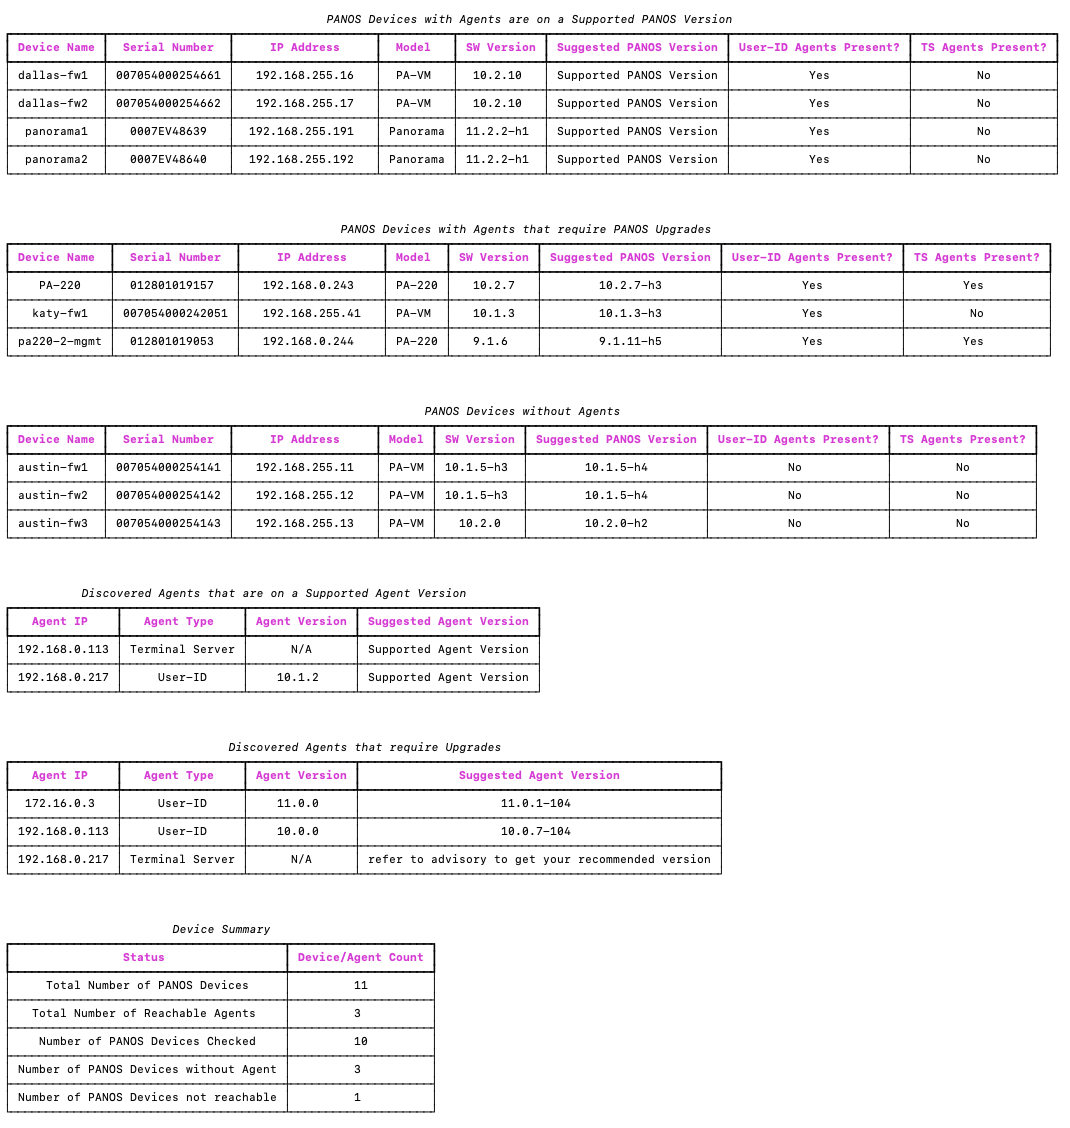
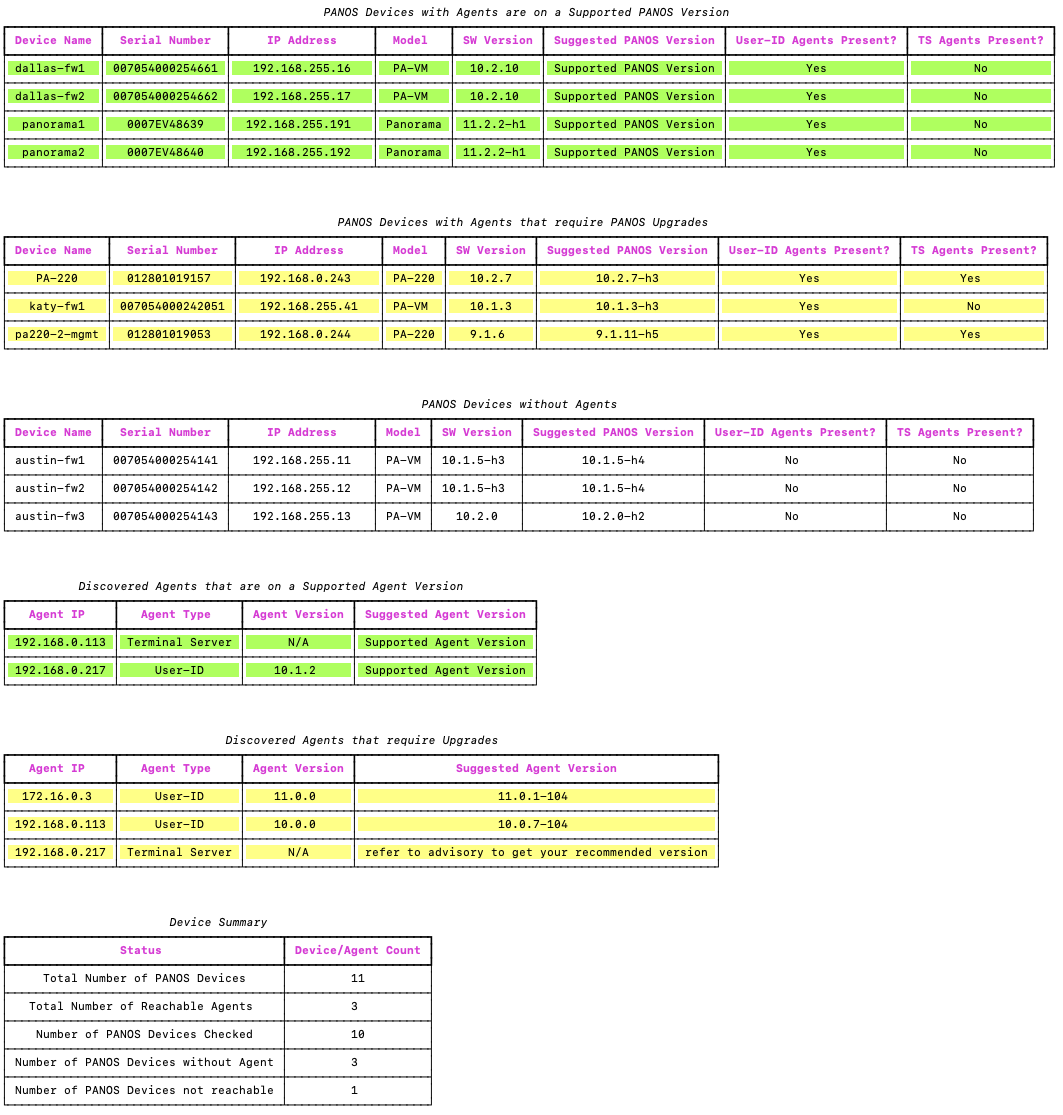
changed example

diff --git a/userid-check.py b/userid-check.py
@@ -524,13 +524,13 @@ if args.c:
 
         for x in panos_list:
             if x[5]  == 'Supported PANOS Version':
-                supported_panos_table.add_row(x[0], x[1], x[2], x[3], x[4], x[5], x[6], x[7])
+                supported_panos_table.add_row(x[0], x[1], x[2], x[3], x[4], x[5], x[6], x[7], style="on #afff5f")
             else:
                 if x[6]  == 'No' and x[7] == 'No':
                     ignore_panos_table.add_row(x[0], x[1], x[2], x[3], x[4], x[5], x[6], x[7])
                     devices_no_agent+=1
                 else:
-                    unsupported_panos_table.add_row(x[0], x[1], x[2], x[3], x[4], x[5], x[6], x[7])
+                    unsupported_panos_table.add_row(x[0], x[1], x[2], x[3], x[4], x[5], x[6], x[7], style="on #ffff87")
 
     with open(panos_agents, 'w') as s:
         write = csv.writer(s)
@@ -539,28 +539,28 @@ if args.c:
 
         for x in agent_list:
             if x[3] == "Supported Agent Version":
-                supported_agent_table.add_row(x[0], x[1], x[2], x[3])
+                supported_agent_table.add_row(x[0], x[1], x[2], x[3], style="on #afff5f")
 
             else:
-                unsupported_agent_table.add_row(x[0], x[1], x[2], x[3])
+                unsupported_agent_table.add_row(x[0], x[1], x[2], x[3], style="on #ffff87")
 
 else:
     for x in panos_list:
         if x[5]  == 'Supported PANOS Version':
-            supported_panos_table.add_row(x[0], x[1], x[2], x[3], x[4], x[5], x[6], x[7])
+            supported_panos_table.add_row(x[0], x[1], x[2], x[3], x[4], x[5], x[6], x[7], style="on #afff5f")
         else:
             if x[6]  == 'No' and x[7] == 'No':
                 ignore_panos_table.add_row(x[0], x[1], x[2], x[3], x[4], x[5], x[6], x[7])
                 devices_no_agent+=1
             else:
-                unsupported_panos_table.add_row(x[0], x[1], x[2], x[3], x[4], x[5], x[6], x[7])
+                unsupported_panos_table.add_row(x[0], x[1], x[2], x[3], x[4], x[5], x[6], x[7], style="on #ffff87")
 
     for x in agent_list:
         if x[3] == "Supported Agent Version":
-            supported_agent_table.add_row(x[0], x[1], x[2], x[3])
+            supported_agent_table.add_row(x[0], x[1], x[2], x[3], style="on #afff5f")
 
         else:
-            unsupported_agent_table.add_row(x[0], x[1], x[2], x[3])
+            unsupported_agent_table.add_row(x[0], x[1], x[2], x[3], style="on #ffff87")
 
 if supported_panos_table.row_count > 0:
     console.print(supported_panos_table)
